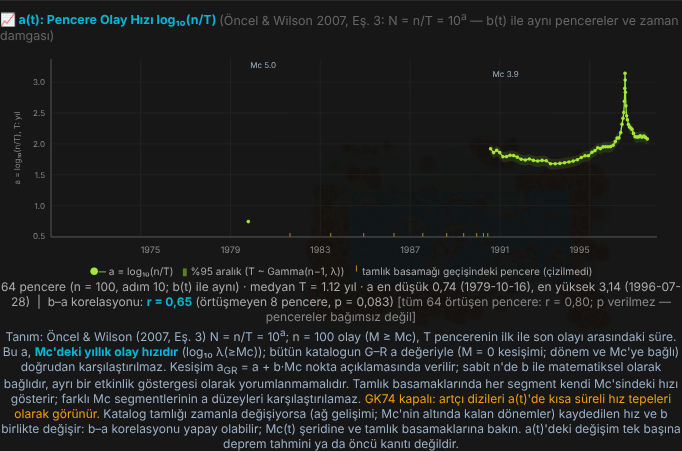
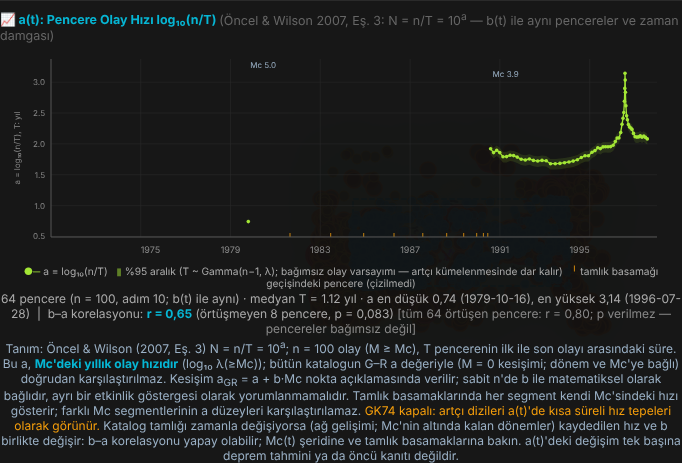
a(t): %95 aralık yöntemi ve tekrar sayıları raporda; kümelenmede kapsama testi (m = 1: %77,8; m = 4: %58,2); Marmara GK74 açık senaryosu
- Panel: aralık açıklamasına "bağımsız olay varsayımı — artçı kümelenmesinde dar kalır"
- test_a_window.js 11/11 (test 7 kümelenme); kabul 23/23 (Marmara GK74: İzmit tepesi a 3,76 → 1,50)
- RAPOR güncelleme 2: §1.2 türetim, §3 tekrar sayıları ve kapsama aralıkları, §5 karıştırıcı etkenler, §6 gözlemler

Claude-Session: https://claude.ai/code/session_01UNMkcWFv5QgcQmvZTMC63m

diff --git a/analysis/a_zaman/kabul_a.js b/analysis/a_zaman/kabul_a.js
@@ -1,7 +1,7 @@
 // Kabul testi (2026-10-31): a(t) paneli (Öncel & Wilson 2007, Eş. 3) b(t)'nin altında.
 // Önce = verilen index.html (main), sonra = depodaki index.html. Veri yerel, ağ gerekmez.
 // Senaryolar: (A) Türkiye, ISC 1971–1997, dikdörtgen 36–42° K / 26–45° D, tek Mc; (B) aynı bölge, tamlık basamakları 1971 M ≥ 5,0 / 1990 M ≥ 3,9;
-//             (C) Marmara (40–41,5° K / 26–31° D), EMSC 1998–2026, tek Mc (1999 İzmit ve Düzce artçıları dahil).
+//             (C) Marmara (40–41,5° K / 26–31° D), EMSC 1998–2026, tek Mc (1999 İzmit ve Düzce artçıları dahil); (D) C + GK74 artçı ayıklama.
 // Denetimler: (1) b(t) grafiği ve metni, G–R metni önce = sonra; (2) a(t) pencere sayısı = b(t) pencere sayısı (karışık olanlar hariç),
 //   a = log₁₀(n/T) bağımsız hesapla aynı; (3) tamlık basamaklarında karışık pencere işaretli, segmentler Mc ile etiketli;
 //   (4) korelasyon yalnız örtüşmeyen pencerelerle p'li; tanım ve uyarı metinleri; (5) sayfa hatası yok. Ekran görüntüleri: a_tekMc.png, a_basamak.png, a_marmara.png
@@ -47,6 +47,7 @@ const SEN = {
   tekMc:   { p: [1971, 1997], r: [36, 26, 42, 45], cs: null, png: 'a_tekMc.png' },
   basamak: { p: [1971, 1997], r: [36, 26, 42, 45], cs: [['1971-01-01', '5.0'], ['1990-01-01', '3.9']], png: 'a_basamak.png' },
   marmara: { p: [1998, null], r: [40, 26, 41.5, 31], cs: null, png: 'a_marmara.png' },
+  marmara_gk74: { p: [1998, null], r: [40, 26, 41.5, 31], cs: null, gk: true, png: 'a_marmara_gk74.png' },
 };
 (async () => {
   await new Promise(r => srv.listen(0, '127.0.0.1', r));
@@ -55,7 +56,7 @@ const SEN = {
     S[ad] = {}; const hat = [];
     for (const [k, c] of Object.entries(SEN)) {
       const { p, ctx, hatalar } = await sayfa(br, yol); await p.evaluate(KUR);
-      await p.evaluate(a => __kur(...a), [c.p, ...c.r]); if (c.cs) await p.evaluate(s => __cs(s), c.cs); await p.waitForTimeout(200);
+      await p.evaluate(a => __kur(...a), [c.p, ...c.r]); if (c.cs) await p.evaluate(s => __cs(s), c.cs); if (c.gk) await p.evaluate(async () => { await toggleRegionDecluster(); applyGk74Filter(regionEvents); renderTimeMag([...events, ...liveEvents]); }); await p.waitForTimeout(200);
       S[ad][k] = await p.evaluate(() => __oku());
       if (ad === 'sonra') { const box = await p.$('#aTsBox'); await box.scrollIntoViewIfNeeded(); await box.screenshot({ path: path.join(__dirname, c.png) }); }
       hat.push(...hatalar); await ctx.close();
@@ -79,6 +80,11 @@ const SEN = {
     ok(mixed > 0 && mcs.length === 2 && /Mc 5,0|Mc 5\.0/.test(y.aSvg) && /Mc 3,9|Mc 3\.9/.test(y.aSvg) && /tamlık basamağı geçişindeki pencere/.test(y.aTxt),
       `(3) Tamlık basamakları: ${mixed} karışık pencere çizilmedi; segmentler Mc ${mcs.join(' / ')} etiketli; "farklı Mc segmentleri karşılaştırılamaz" notu`); }
   ok(/GK74 kapalı/.test(Y.marmara.aTxt), '(4) GK74 kapalıyken artçı tepeleri uyarısı');
+  { const a = Y.marmara, g = Y.marmara_gk74, top = v => v.ats.pts.reduce((m, q) => q.a > m.a ? q : m), ta = top(a), tg = top(g);
+    const izA = a.ats.pts.filter(q => q.t >= Date.UTC(1999, 7, 1) && q.t <= Date.UTC(2000, 11, 31)), izG = g.ats.pts.filter(q => q.t >= Date.UTC(1999, 7, 1) && q.t <= Date.UTC(2000, 11, 31));
+    const mx = v => v.length ? Math.max(...v.map(q => q.a)) : null;
+    ok(!/GK74 kapalı/.test(g.aTxt) && /GK74 artçı ayıklama açık/.test(g.aTxt) && g.ats.pts.length < a.ats.pts.length && mx(izG) !== null && mx(izG) < mx(izA) - 0.5,
+      `(4) Marmara GK74 açık: pencere ${a.ats.pts.length} → ${g.ats.pts.length}; 1999–2000 en yüksek a ${mx(izA).toFixed(2)} → ${mx(izG).toFixed(2)} (artçı tepesi büyük ölçüde kalkıyor); tüm seri en yüksek a ${ta.a.toFixed(2)} (${new Date(ta.t).toISOString().slice(0, 10)}) → ${tg.a.toFixed(2)} (${new Date(tg.t).toISOString().slice(0, 10)}); r(b, a) metni: ${(g.aTxt.match(/r = [^(]+\([^)]*\)/) || ['—'])[0]}`); }
   ok(!O.hatalar.length && !Y.hatalar.length, `(5) Sayfa hatası yok (önce ${O.hatalar.length}, sonra ${Y.hatalar.length})` + (Y.hatalar.length ? ': ' + Y.hatalar.join(' | ') : ''));
   const ozet = {}; for (const k of Object.keys(SEN)) ozet[k] = { metin: Y[k].aTxt, pencere: Y[k].ats.pts.length };
   fs.writeFileSync(path.join(__dirname, 'kabul_sonuc.json'), JSON.stringify({ senaryolar: SEN, sonuc: ozet, denetimler: kayit, ozet: { pass, fail } }, null, 1));

diff --git a/scripts/test_a_window.js b/scripts/test_a_window.js
@@ -7,6 +7,7 @@
 //   4. a_GR = a + b·Mc kimliği; sabit n'de a_GR ile b'nin ilişkisi (hız sabitken bile güçlü korelasyon) — a_GR neden ayrı gösterge değil.
 //   5. b–a korelasyonu: H0 altında (sabit hız, sabit b) örtüşmeyen pencerelerle p < 0,05 oranı ≈ %5; örtüşen pencerelerin r dağılımı daha geniş.
 //   6. Tamlık basamakları: Mc'si karışık pencere işaretlenir, a hesaplanmaz.
+//   7. Kümelenme (artçı benzeri): %95 aralık Poisson varsayımına dayanır; kümelenmiş süreçte uzun dönem hızı kapsama oranı düşer (ölçülür).
 // Kullanım (depo kökünde): node scripts/test_a_window.js [index.html]
 'use strict';
 const fs = require('fs'), path = require('path'), vm = require('vm');
@@ -48,7 +49,7 @@ console.log('\n2. Sabit hız (λ = 20/yıl, b = 1, Mc = 3, 300 yıl; n = 100)');
   for (let r = 0; r < R; r++) { const s = seri(katalog(rnd, [[300, lam]], 1, 3), 100, 100, 3), a = X.aSeriesFrom(s, 100, 3, null);
     a.forEach(q => { tot++; bias += q.a - Math.log10(lam); if (q.lo <= Math.log10(lam) && Math.log10(lam) <= q.hi) cov++; }); }
   const se = Math.sqrt(0.95 * 0.05 / tot);
-  console.log(`     ${tot} örtüşmeyen pencere: ortalama a − log₁₀λ = ${(bias / tot).toFixed(4)} (n/T tanımının beklenen yanlılığı log₁₀(100/99) = 0,0044); kapsama %${(100 * cov / tot).toFixed(1)} (± %${(196 * se).toFixed(1)})`);
+  console.log(`     ${R} sentetik katalog (tohum 11), toplam ${tot} örtüşmeyen pencere (adım = n = 100): ortalama a − log₁₀λ = ${(bias / tot).toFixed(4)} (n/T tanımının beklenen yanlılığı log₁₀(100/99) = 0,0044); kapsama %${(100 * cov / tot).toFixed(1)} (± %${(196 * se).toFixed(1)})`);
   ok(Math.abs(bias / tot - Math.log10(100 / 99)) < 0.01, 'a yansız (n/T tanımının küçük yanlılığı dışında)');
   ok(Math.abs(cov / tot - 0.95) < 2.6 * se, '%95 aralık nominal kapsamada'); }
 
@@ -81,5 +82,18 @@ console.log('\n6. Tamlık basamakları: karışık Mc penceresi');
   ok(f.mcLo === 4.0 && f.mcHi === 4.5 && f.w0 === 0 && f.w1 === 2, 'aWinFields: pencere sınırları ve Mc aralığı');
   const s = [{ t: 1, b: 1, w0: 0, w1: Y, mcLo: 4.5, mcHi: 4.5 }, { t: 2, b: 1, w0: 0, w1: Y, mcLo: 4.0, mcHi: 4.5 }], a = X.aSeriesFrom(s, 100, null, {});
   ok(a[0].mc === 4.5 && !a[0].mixed && a[1].mixed && a[1].mc === null && a[1].aGR === null, 'tek Mc penceresi çizilir; karışık pencere işaretlenir, a_GR hesaplanmaz'); }
+
+console.log('\n7. Kümelenme: %95 aralığın Poisson varsayımı (uzun dönem hızı λ = 20/yıl, 300 yıl, 40 katalog)');
+{ // Ana olaylar Poisson (μ), her birinin K ~ Poisson(m) artçısı, gecikme üstel (ortalama 0,02 yıl ≈ 7 gün). Uzun dönem hızı λ = μ(1 + m).
+  const kume = (rnd, mu, m, d) => { const ev = []; const pois = l => { let k = 0, p = Math.exp(-l), c = p, u = rnd(); while (u > c) { k++; p *= l / k; c += p; } return k; };
+    let t = 0; for (;;) { t += -Math.log(1 - rnd()) / mu; if (t >= d) break; ev.push(t); const K = pois(m); for (let j = 0; j < K; j++) { const ta = t - 0.02 * Math.log(1 - rnd()); if (ta < d) ev.push(ta); } }
+    return ev.sort((a, b) => a - b).map(x => ({ t: x * Y, m: 3 + Math.round(-Math.log(1 - rnd()) / Math.LN10 * 10) / 10, mc: 3 })); };
+  const out = [];
+  for (const [ad, mu, m] of [['kümelenmesiz (m = 0)', 20, 0], ['orta (m = 1)', 10, 1], ['güçlü (m = 4)', 4, 4]]) {
+    const rnd = rng(15), lam = mu * (1 + m); let cov = 0, tot = 0;
+    for (let r = 0; r < 40; r++) X.aSeriesFrom(seri(kume(rnd, mu, m, 300), 100, 100, 3), 100, 3, null).forEach(q => { tot++; if (q.lo <= Math.log10(lam) && Math.log10(lam) <= q.hi) cov++; });
+    out.push([ad, cov / tot, tot]); }
+  console.log(`     uzun dönem λ'yı kapsama: ${out.map(([a, c, n]) => `${a} %${(100 * c).toFixed(1)} (${n} pencere)`).join('; ')}`);
+  ok(Math.abs(out[0][1] - 0.95) < 0.02 && out[1][1] < out[0][1] - 0.05 && out[2][1] < out[1][1], 'kümelenme arttıkça kapsama düşer: aralık yalnız Poisson (bağımsız olay) varsayımında %95; artçılar ayıklanmadıysa dar kalır'); }
 
 console.log(`\n${fail ? 'FAIL' : 'PASS'}: ${pass} geçti, ${fail} kaldı`); process.exit(fail ? 1 : 0);

diff --git a/index.html b/index.html
@@ -2958,7 +2958,7 @@ function renderAvalueTS(series, N, Mc, cs, t0, t1, NW, STEP) {
   const med = v => { const a = v.slice().sort((p, q) => p - q); return a[Math.floor(a.length / 2)]; };
   const aMin = ok.reduce((m, q) => q.a < m.a ? q : m), aMax = ok.reduce((m, q) => q.a > m.a ? q : m);
   const decl = typeof regionDeclusterOn !== 'undefined' && regionDeclusterOn && regionRect;
-  st.innerHTML = `<div style="font-size:.85em;color:#aaa"><span style="color:${COL}">●─</span> a = log₁₀(n/T) &nbsp; <span style="color:${COL};opacity:.5">▮</span> %95 aralık (T ~ Gamma(n−1, λ)) ${nMixed ? `&nbsp; <span style="color:#f59e0b">╵</span> tamlık basamağı geçişindeki pencere (çizilmedi)` : ''}</div>` +
+  st.innerHTML = `<div style="font-size:.85em;color:#aaa"><span style="color:${COL}">●─</span> a = log₁₀(n/T) &nbsp; <span style="color:${COL};opacity:.5">▮</span> %95 aralık (T ~ Gamma(n−1, λ); bağımsız olay varsayımı — artçı kümelenmesinde dar kalır) ${nMixed ? `&nbsp; <span style="color:#f59e0b">╵</span> tamlık basamağı geçişindeki pencere (çizilmedi)` : ''}</div>` +
     `<div style="margin-top:2px">${ok.length} pencere (n = ${NW}, adım ${STEP}; b(t) ile aynı) · medyan T = ${med(ok.map(q => q.Tyr)).toPrecision(3)} yıl · a en düşük ${fmt(aMin.a)} (${dstr(aMin.t)}), en yüksek ${fmt(aMax.a)} (${dstr(aMax.t)})` +
     (rInd ? ` &nbsp;|&nbsp; b–a korelasyonu: <b>r = ${rInd.r.toFixed(2).replace('.', ',')}</b> (örtüşmeyen ${rInd.n} pencere, p = ${rInd.p < 1e-3 ? rInd.p.toExponential(1).replace('.', ',') : rInd.p.toFixed(3).replace('.', ',')})` : ' &nbsp;|&nbsp; b–a korelasyonu: örtüşmeyen pencere sayısı yetersiz') +
     (rAll ? ` <span style="color:#888">[tüm ${rAll.n} örtüşen pencere: r = ${rAll.r.toFixed(2).replace('.', ',')}; p verilmez — pencereler bağımsız değil]</span>` : '') + `</div>` +

diff --git a/analysis/a_zaman/RAPOR.md b/analysis/a_zaman/RAPOR.md
@@ -1,10 +1,20 @@
-# a(t) paneli — pencere olay hızı (2026-10-31)
+# a(t) paneli — pencere olay hızı (2026-10-31, güncelleme 2)
 
-Dal: `a-zaman-paneli`, `main` 89cacdb'den açıldı. `main`'e birleştirilmedi.
+Dal: `a-zaman-paneli`, `main` 89cacdb'den açıldı. `main`'e birleştirilmedi; bilimsel inceleme bekliyor.
 
-## 1. Tanım
+**Güncelleme 2'de eklenenler:**
+- %95 aralık yönteminin türetimi ve varsayımı (§1.2).
+- Sentetik testlerin tekrar sayıları ve kapsama oranlarının kendi aralıkları (§3).
+- Kümelenmenin aralık kapsamasına etkisi (test 7).
+- Marmara'da GK74 açık/kapalı karşılaştırması (§4).
+- a–b ilişkisini karıştırabilecek etkenler tablosu (§5).
+- Panelin aralık açıklamasına "bağımsız olay varsayımı — artçı kümelenmesinde dar kalır" eklendi.
 
-Panel, b(t)'nin hemen altında yer alır ve b(t) ile aynı pencereleri kullanır: n = 100 olay, aynı adım, aynı zaman damgası.
+## 1. Tanım ve yöntem
+
+### 1.1 a(t)
+
+Panel, b(t)'nin altında yer alır ve b(t) ile aynı pencereleri kullanır: n = 100 olay (M ≥ Mc), aynı adım, aynı zaman damgası.
 
 Öncel & Wilson (2007, GJI 169, s. 262, Eş. 3):
 
@@ -12,80 +22,97 @@ Panel, b(t)'nin hemen altında yer alır ve b(t) ile aynı pencereleri kullanır
 N = n/T = 10^a      →      a = log₁₀(n/T)
 ```
 
-- n: pencerenin olay sayısı (M ≥ Mc).
 - T: pencerenin ilk ile son olayı arasındaki süre (yıl).
-- Bu a, **Mc'deki yıllık olay hızıdır**, yani log₁₀ λ(≥Mc).
-- G–R bağıntısının M = 0'daki kesişimi değildir.
-- Bütün katalog için hesaplanan G–R a değeriyle doğrudan karşılaştırılmaz, çünkü o değer seçilen döneme ve Mc'ye bağlıdır.
+- a, **Mc'deki yıllık olay hızıdır** (log₁₀ λ(≥Mc)); G–R bağıntısının M = 0'daki kesişimi değildir.
+- Bütün katalog için hesaplanan G–R a değeriyle doğrudan karşılaştırılmaz; o değer seçilen döneme ve Mc'ye bağlıdır.
 
-**%95 aralık:** Poisson sürecinde n olay arasındaki n−1 bekleme süresinin toplamı T ~ Gamma(n−1, λ) dağılır. Buradan:
+G–R kesişimi a_GR = a + b·Mc yalnızca nokta açıklamasında verilir; ayrı eğri olarak çizilmez (§3, test 4). Öncel & Wilson (2007) Şekil 10'daki a değerleri (7,32; 7,09; 7,94) sayıya dayalı kesişimlerdir: log₁₀ n + b·Mc. Örneğin log₁₀ 170 + 1,75 × 2,9 = 7,31.
+
+### 1.2 %95 güven aralığı
+
+**Varsayım:** Pencere içinde olaylar sabit hızlı bir Poisson süreci oluşturur; yani olaylar bağımsızdır.
+
+**Türetim:**
+1. Penceredeki n olay arasında n−1 bekleme süresi vardır. Bunlar bağımsızdır ve her biri Üstel(λ) dağılır.
+2. Toplamları T ~ Gamma(n−1, λ), dolayısıyla 2λT ~ χ²(2(n−1)).
+3. Buradan λ için kesin %95 aralığı:
 
 ```
-λ ∈ [χ²₀,₀₂₅(2(n−1)), χ²₀,₉₇₅(2(n−1))] / (2T)
+λ ∈ [ χ²₀,₀₂₅(2(n−1)) / (2T) ,  χ²₀,₉₇₅(2(n−1)) / (2T) ]
 ```
 
-χ² nicelikleri Wilson–Hilferty (1931) yaklaşımıyla hesaplanır; göreli hata < 5e−4. Nokta değeri yayındaki tanıma uyar ve n/T'dir. n = 100'de bu, (n−1)/T'den 0,0044 log birimi yüksektir.
+a için aralık bu iki sınırın log₁₀'udur. n = 100'de aralığın yarı genişliği yaklaşık ±0,087 log birimidir.
 
-**G–R kesişimi a_GR = a + b·Mc:** Yalnızca nokta açıklamasında verilir. Ayrı bir eğri olarak çizilmez, çünkü sabit n'de yapısal olarak b'ye bağlıdır (§3, test 4). Öncel & Wilson (2007) Şekil 10'daki a değerleri (7,32; 7,09; 7,94) sayıya dayalı kesişimlerdir: log₁₀ n + b·Mc. Örneğin log₁₀ 170 + 1,75 × 2,9 = 7,31.
+**Hesap:** χ² nicelikleri Wilson–Hilferty (1931) yaklaşımıyla hesaplanır: χ²_p(k) ≈ k·(1 − 2/(9k) + z_p·√(2/(9k)))³. n = 20–200 aralığında kesin değerlere göre en büyük göreli hata 4,6e−4'tür (test 1).
 
-**Tamlık basamakları etkinken:**
-- Her pencerenin olay eşikleri karşılaştırılır.
-- Mc'si karışık olan pencere (bir basamak geçişini içeren) çizilmez; eksende turuncu çentikle işaretlenir.
-- Çizgi her Mc segmentinde kesilir ve segment Mc ile etiketlenir.
-- Farklı Mc segmentlerinin a düzeyleri karşılaştırılamaz.
+**Nokta değeri:** Yayındaki tanıma uymak için n/T kullanılır. Yansız kestirici (n−1)/T'dir; n = 100'de fark 0,0044 log birimi, aralık genişliğinin yaklaşık %5'i.
 
-**b–a korelasyonu:**
-- Yalnızca örtüşmeyen pencerelerle (her ⌈n/adım⌉'ıncı pencere) Pearson r ve p (Fisher z) verilir.
-- Tamlık basamaklarında korelasyon yalnızca aynı Mc segmenti içinde hesaplanır.
-- Tüm örtüşen pencerelerin r'si bilgi olarak gösterilir, ama p verilmez (§3, test 5).
+**Geçerlilik sınırı:** Artçı kümelenmesinde olaylar bağımsız değildir. Pencereden pencereye değişim Poisson'dan büyük olur ve aralık dar kalır (test 7: orta kümelenmede kapsama %78, güçlü kümelenmede %58). Panel bunu yazar. GK74 açıkken aralık daha anlamlıdır.
 
-**Metinde yazan uyarılar:**
-- GK74 kapalıysa artçı dizileri kısa süreli hız tepeleri olarak görünür.
-- Tamlık zamanla değişiyorsa b–a korelasyonu yapay olabilir.
-- a(t)'deki değişim tek başına deprem tahmini ya da öncü kanıtı değildir.
+### 1.3 Diğer kurallar
+
+- **Tamlık basamakları:** Mc'si karışık pencere (bir basamak geçişini içeren) çizilmez; eksende turuncu çentikle işaretlenir. Çizgi her Mc segmentinde kesilir ve segment Mc ile etiketlenir. Farklı Mc segmentlerinin a düzeyleri karşılaştırılamaz.
+- **b–a korelasyonu:** Yalnızca örtüşmeyen pencerelerle (her ⌈n/adım⌉'ıncı) Pearson r ve iki yönlü p (Fisher z) verilir; basamaklarda yalnızca aynı Mc segmenti içinde. Tüm örtüşen pencerelerin r'si bilgi olarak gösterilir, p verilmez (test 5).
+- **Metindeki uyarılar:** GK74 kapalıysa artçı tepeleri; tamlık değişirse yapay b–a korelasyonu; tahmin ya da öncü kanıtı değildir.
 
 ## 2. Değişiklik
 
-- `index.html`'de 96 satır değişti.
+- `index.html`'de yaklaşık 96 satır değişti.
 - Yeni fonksiyonlar: `aWinFields`, `aChi2Q`, `aWinValue`, `aPearson`, `aSeriesFrom`, `renderAvalueTS`.
 - Yeni panel: `#aTsBox`.
-- `csBvalueTimeSeries` serisine pencere sınırları ve Mc aralığı eklendi (`w0`, `w1`, `mcLo`, `mcHi`; yeni alan adları). Mevcut `t0/t1` ve b hesapları değişmedi.
-- `scripts/test_fit_range.js`: yeni yardımcı fonksiyon, `csBvalueTimeSeries`'in yanında kesilecekler listesine eklendi.
+- `csBvalueTimeSeries` serisine yeni alanlar eklendi (`w0`, `w1`, `mcLo`, `mcHi`). Mevcut `t0/t1` ve b hesapları değişmedi.
+- `scripts/test_fit_range.js`: yeni yardımcı fonksiyon, kesilecekler listesine eklendi.
 
-## 3. Birim testleri (`scripts/test_a_window.js`): 10/10
+## 3. Birim testleri (`scripts/test_a_window.js`): 11/11
 
-| Denetim | Sonuç |
-|---|---|
-| 1. χ² nicelikleri (n = 20–200) | en büyük göreli hata 4,6e−4 |
-| 2. Sabit hız (λ = 20/yıl; 2387 örtüşmeyen pencere): a − log₁₀λ | 0,0075 (beklenen 0,0044) |
-| 2. Aynı deney: %95 kapsama | %95,3 (± 0,9) |
-| 3. Hızın iki katına çıkması | a sıçraması 0,276 (beklenen 0,301) |
-| 4. Sabit hız ve sabit b'de r(b, a_GR) | 0,99: yapısal bağ |
-| 4. Aynı deneyde r(b, a) | 0,00 |
-| 5. H0 altında p < 0,05 oranı: örtüşmeyen pencerelerle | %2,3 |
-| 5. Aynı, örtüşen pencereler bağımsızmış gibi sayılırsa | %46: sahte anlamlılık |
-| 6. Karışık Mc penceresinin işaretlenmesi | geçti |
+Hepsi tohumlu üreteçle yapıldı, yani tekrarlanabilir. Köşeli parantezler, kapsama oranının kendi %95 aralığıdır (binom).
+
+| Test | Kurgu ve tekrar sayısı | Sonuç |
+|---|---|---|
+| 1. χ² nicelikleri | n = 20, 50, 100, 200; p = 0,025 ve 0,975; kesin değer seri ile | en büyük göreli hata 4,6e−4 |
+| 2. Yanlılık ve kapsama | λ = 20/yıl, b = 1, Mc = 3, 300 yıl; **40 katalog (tohum 11), 2387 örtüşmeyen pencere** | a − log₁₀λ = 0,0075 (beklenen 0,0044); **kapsama %95,3 [%94,4–%96,1]** |
+| 3. Hız değişimi | 100 yıl λ = 10, sonra 100 yıl λ = 20; 1 katalog (tohum 12), adım 10 | a sıçraması 0,276 (beklenen 0,301; tolerans 0,05) |
+| 4. a_GR ile b'nin bağı | sabit hız ve sabit b; 400 yıl, 1 katalog (tohum 13), adım 10 | r(b, a_GR) = 0,99; r(b, a) = 0,00 |
+| 5. Korelasyon testinin boyutu | H0: sabit hız, sabit b; **300 katalog (tohum 14)**, her biri ≈ 23 örtüşmeyen pencere | p < 0,05 oranı: örtüşmeyen %2,3; örtüşenler bağımsız sayılırsa %46 |
+| 6. Karışık Mc penceresi | yapay pencereler | işaretleniyor, a_GR hesaplanmıyor |
+| 7. Kümelenme | uzun dönem λ = 20/yıl, 300 yıl, **her durumda 40 katalog (tohum 15), ≈ 2380 pencere**; ana olay Poisson(μ), artçı sayısı Poisson(m), gecikme üstel (≈ 7 gün) | kapsama: m = 0 %95,1; m = 1 **%77,8**; m = 4 **%58,2** |
 
 Diğer birim testleri: 15/15 geçti (`test_fit_range.js` 37/37).
 
-## 4. Kabul testi (`kabul_a.js`, önce = main 89cacdb): 17/17
+## 4. Kabul testi (`kabul_a.js`, önce = main 89cacdb): 23/23
 
 | Senaryo | Pencere | r(b, a), örtüşmeyen | a aralığı |
 |---|---|---|---|
 | Türkiye, ISC 1971–1997, tek Mc (3,7) | 211 | 0,79 (22 pencere, p = 3e−6) | 1,34–3,83 |
 | Aynı bölge, basamaklar 1971 M ≥ 5,0 / 1990 M ≥ 3,9 | 74 (10 karışık, çizilmedi) | 0,65 (8 pencere, p = 0,083) | 0,74–3,14 |
-| Marmara, EMSC 1998–2026, tek Mc | 124 | −0,05 (13 pencere, p = 0,86) | 1,36–3,76 |
+| Marmara, EMSC 1998–2026, tek Mc, GK74 kapalı | 124 | −0,05 (13 pencere, p = 0,86) | 1,36–3,76 |
+| Marmara, aynı, **GK74 açık** | 53 | 0,71 (6 pencere, p = 0,13) | 1,18–1,50 |
 
-- b(t) grafiği, b(t) metni ve G–R metni üç senaryoda da önce = sonra.
+- Dört senaryoda b(t) grafiği, b(t) metni ve G–R metni önce = sonra.
 - a(t) değerleri bağımsız yeniden hesapla aynı (fark ≤ 4e−16).
 - Sayfa hatası 0.
-
-**Yorum notları:**
-- **Türkiye 1971–1997 tek Mc:** Güçlü pozitif korelasyon (0,79) büyük olasılıkla tamlıktan kaynaklanıyor. Mc = 3,7 dönemin başında tam değil; ağ geliştikçe hem kaydedilen hız hem b birlikte artar. Basamaklı seride korelasyon zayıflıyor ve anlamlı değil (8 pencere). Bu nedenle panele "yapay korelasyon" uyarısı eklendi.
-- **Marmara:** 1999 İzmit artçı dizisi belirgin bir hız tepesi olarak görünüyor (a = 3,76; 18 Ağustos 1999; GK74 kapalı).
-- Öncel & Wilson (2007) b ile log N korelasyonunu örtüşen 8 noktalık pencerelerde raporlamıştı (r = −0,62 ve +0,85, s. 263). Burada ise p yalnızca örtüşmeyen pencerelerle veriliyor; test 5 bunun gerekçesi.
 
 Ekran görüntüleri:
 - `a_tekMc.png`
 - `a_basamak.png`
 - `a_marmara.png`
+- `a_marmara_gk74.png`
+
+## 5. a–b ilişkisini karıştırabilecek etkenler
+
+| Etken | Etkisi | Panelde nasıl ele alınıyor |
+|---|---|---|
+| Aynı olaylardan hesaplama | a ve b aynı 100 olaydan gelir. Sabit n'de G–R kesişimi a_GR yapısal olarak b'ye bağlıdır (test 4). | Çizilen a = log₁₀(n/T), b'den yapısal olarak bağımsız (test 4: r = 0,00); a_GR yalnızca açıklamada |
+| Örtüşen pencereler | Ardışık pencereler 90 olay paylaşır; bağımsız sayılırsa sahte anlamlılık çıkar (test 5: %46) | p yalnızca örtüşmeyen pencerelerle |
+| Tamlık değişimi | Mc'nin altında kalan dönemde kaydedilen hız ve b birlikte düşer; yapay pozitif korelasyon oluşur | Uyarı metni; tamlık basamaklarıyla segmentlere bölme; Türkiye 1971–1997'de r 0,79 → 0,65 (anlamlı değil) |
+| Mc basamakları | Farklı eşiklerin hızları karşılaştırılamaz | Karışık pencere çizilmez; korelasyon segment içinde |
+| Artçı dizileri | Hız tepeleri oluşur; aralık dar kalır (test 7) | GK74 uyarısı; Marmara'da GK74 açılınca İzmit tepesi 3,76 → 1,50 |
+| Büyüklük ölçeği / dönüşüm değişimi | Ölçek değişirse Mc'deki hız ve b kayar | Kapsam dışı; Mc(t) şeridi ve büyüklük türü tanısıyla birlikte değerlendirilmeli |
+
+## 6. Gözlemler (yorum değil)
+
+1. **Marmara 1999 İzmit:** GK74 kapalıyken belirgin bir hız tepesi görünüyor (a = 3,76; 18 Ağustos 1999). GK74 açıkken 1999–2000'deki en yüksek a 1,50; tepe büyük ölçüde artçılardan oluşuyor.
+2. **Türkiye 1971–1997:** Tek Mc'deki güçlü b–a korelasyonu (r = 0,79; p = 3e−6), tamlık basamaklarıyla zayıflıyor ve anlamlılığını yitiriyor (0,65; 8 pencere; p = 0,08). İstatistiksel olarak anlamlı görünen bir ilişki katalog özelliklerinden kaynaklanabilir.
+3. **Marmara, GK74 açık:** a, 2000'de yaklaşık 1,5'ten 2020'de yaklaşık 1,2'ye yavaşça iniyor. Nedeni bu çalışmada araştırılmadı. Olası nedenler: Mc(t) değişimi, GK74'ün büyük deprem sonrası uzun zaman pencereleri, büyüklük dönüşümü. Fiziksel bir sonuç olarak yorumlanmamalı.
+
+**Temel ilke:** a(t) üretim hızındaki değişimi, b(t) büyüklük dağılımındaki değişimi gösterir. İkisi aynı pencerelerden gelir; birlikte okunurken §5'teki etkenler ayrılmalıdır.
